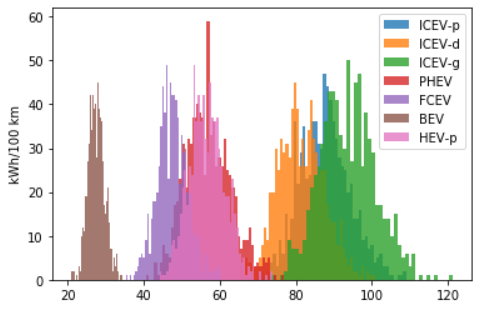
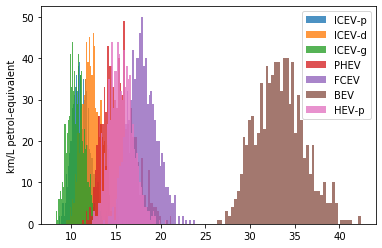
Update

diff --git a/README.md b/README.md
@@ -15,12 +15,12 @@ A fully parameterized Python model developed by the [Technology Assessment group
 [Paul Scherrer Institut](https://www.psi.ch/en) to calculate the life cycle material and energy requirements of passenger cars.
 
 More specifically, *Carculator* allows to:
-* produce life cycle assessment results that include conventional midpoint impact assessment indicators as well cost indicators
+* produce [life cycle assessment (LCA)](https://en.wikipedia.org/wiki/Life-cycle_assessment) results that include conventional midpoint impact assessment indicators as well cost indicators
 * calculate hot pollutant and noise emissions based on a specified driving cycle
 * produce error propagation analyzes (i.e., Monte Carlo) while preserving relations between inputs and outputs
 * control all the parameters sensitive to the foreground model (i.e., the vehicles) but also to the background model
 (i.e., supply of fuel, battery chemistry, etc.)
-* and easily export the vehicle models as inventories to be further imported in the `brightway2` LCA framework
+* and easily export the vehicle models as inventories to be further imported in the [Brightway2](https://brightwaylca.org/) LCA framework
 
 *Carculator* integrates well with [Brightway](https://brightwaylca.org/) and [presamples](https://github.com/PascalLesage/brightway2-presamples).
 
@@ -31,28 +31,50 @@ Extended from the initial work described in [Uncertain environmental footprint o
 
 See [Documentation](https://coarse-lci.readthedocs.io/en/latest/index.html).
 
-## Usage
+## Installation
 
-Calculate the ``Tank to wheel`` energy requirement (in kWh/100 km) of current SUVs for the driving cycle WLTC 3.4
+*Carculator* is at an early stage of development and is subject to continuous change and improvement.
+Three ways of installing *Carculator* are suggested.
+
+### Installation of a stable version from Pypi
+
+    pip install carculator
+
+### Installation of a development version from conda
+
+    conda install -c conda-forge -c pascallesage -c cmutel -c romainsacchi/label/nightly carculator-dev
+    
+
+### Installation of a development version from GitHub
+
+    pip install git+https://github.com/romainsacchi/carculator.git
+
+
+## Usage examples
+
+Calculate the fuel efficiency (or ``Tank to wheel`` energy requirement) in km/L of petrol-equivalent of current SUVs for the driving cycle WLTC 3.4
 over 800 Monte Carlo iterations:
-
+```python
     from carculator import *
+    import matplotlib.pyplot as plt
     cip = CarInputParameters()
     cip.stochastic(800)
     dcts, array = fill_xarray_from_input_parameters(cip)
     cm = CarModel(array, cycle='WLTC 3.4')
     cm.set_all()
-    TtW_energy = cm.array.sel(size='SUV', year=2017, parameter='TtW energy', value=0) * 1/3600 * 100
-
-    plt.bar(TtW_energy.powertrain, TtW_energy)
-    plt.ylabel('kWh/100 km')
-    plt.show()
+    TtW_energy = 1 / (cm.array.sel(size='SUV', year=2017, parameter='TtW energy') / 42000) # assuming 42 MJ/L petrol
     
+    l_powertrains = TtW_energy.powertrain
+    [plt.hist(e, bins=50, alpha=.8, label=e.powertrain.values) for e in TtW_energy]
+    plt.ylabel('km/L petrol-equivalent')
+    plt.legend()
+```
+   
 ![MC results](https://github.com/romainsacchi/coarse/raw/master/docs/stochastic_example_ttw.png)
 
 Compare the carbon footprint of electric vehicles with that of rechargeable hybrid vehicles for different size categories today and in the future
 over 500 Monte Carlo iterations:
-
+```python
     from carculator import *
     cip = CarInputParameters()
     cip.stochastic(500)
@@ -70,6 +92,7 @@ over 500 Monte Carlo iterations:
     data_MC.unstack(level=[0,1,2]).boxplot(showfliers=False, figsize=(20,5))
     plt.xticks(rotation=70)
     plt.ylabel('kg CO2-eq./vkm')
+```
     
 ![MC results](https://github.com/romainsacchi/coarse/raw/master/docs/example_stochastic_BEV_PHEV.png)
 
@@ -80,24 +103,6 @@ For more examples, see [examples](https://github.com/romainsacchi/carculator/blo
 Carculator has a graphical user interface for fast comparisons of vehicles.
 See [carculator_online](http://carculator.psi.ch).
 
-## Installation
-
-*Carculator* is at an early stage of development and is subject to continuous change and improvement.
-Three ways of installing *Carculator* are suggested.
-
-### Installation of a stable version from Pypi
-
-    pip install carculator
-
-### Installation of a development version from from conda
-
-    conda install -c conda-forge -c pascallesage -c cmutel -c romainsacchi/label/nightly carculator-dev
-    
-
-### Installation of a development version from from GitHub
-
-    pip install git+https://github.com/romainsacchi/carculator.git
-
 
 ## Contributing
 
@@ -105,4 +110,4 @@ Details on how to contribute: see [Issues](https://github.com/romainsacchi/carcu
 
 ## Support
 
-Do not hesitate to contact the development team at [carculator@psi.ch](carculator@psi.ch).
+Do not hesitate to contact the development team at [carculator@psi.ch](mailto:carculator@psi.ch).
